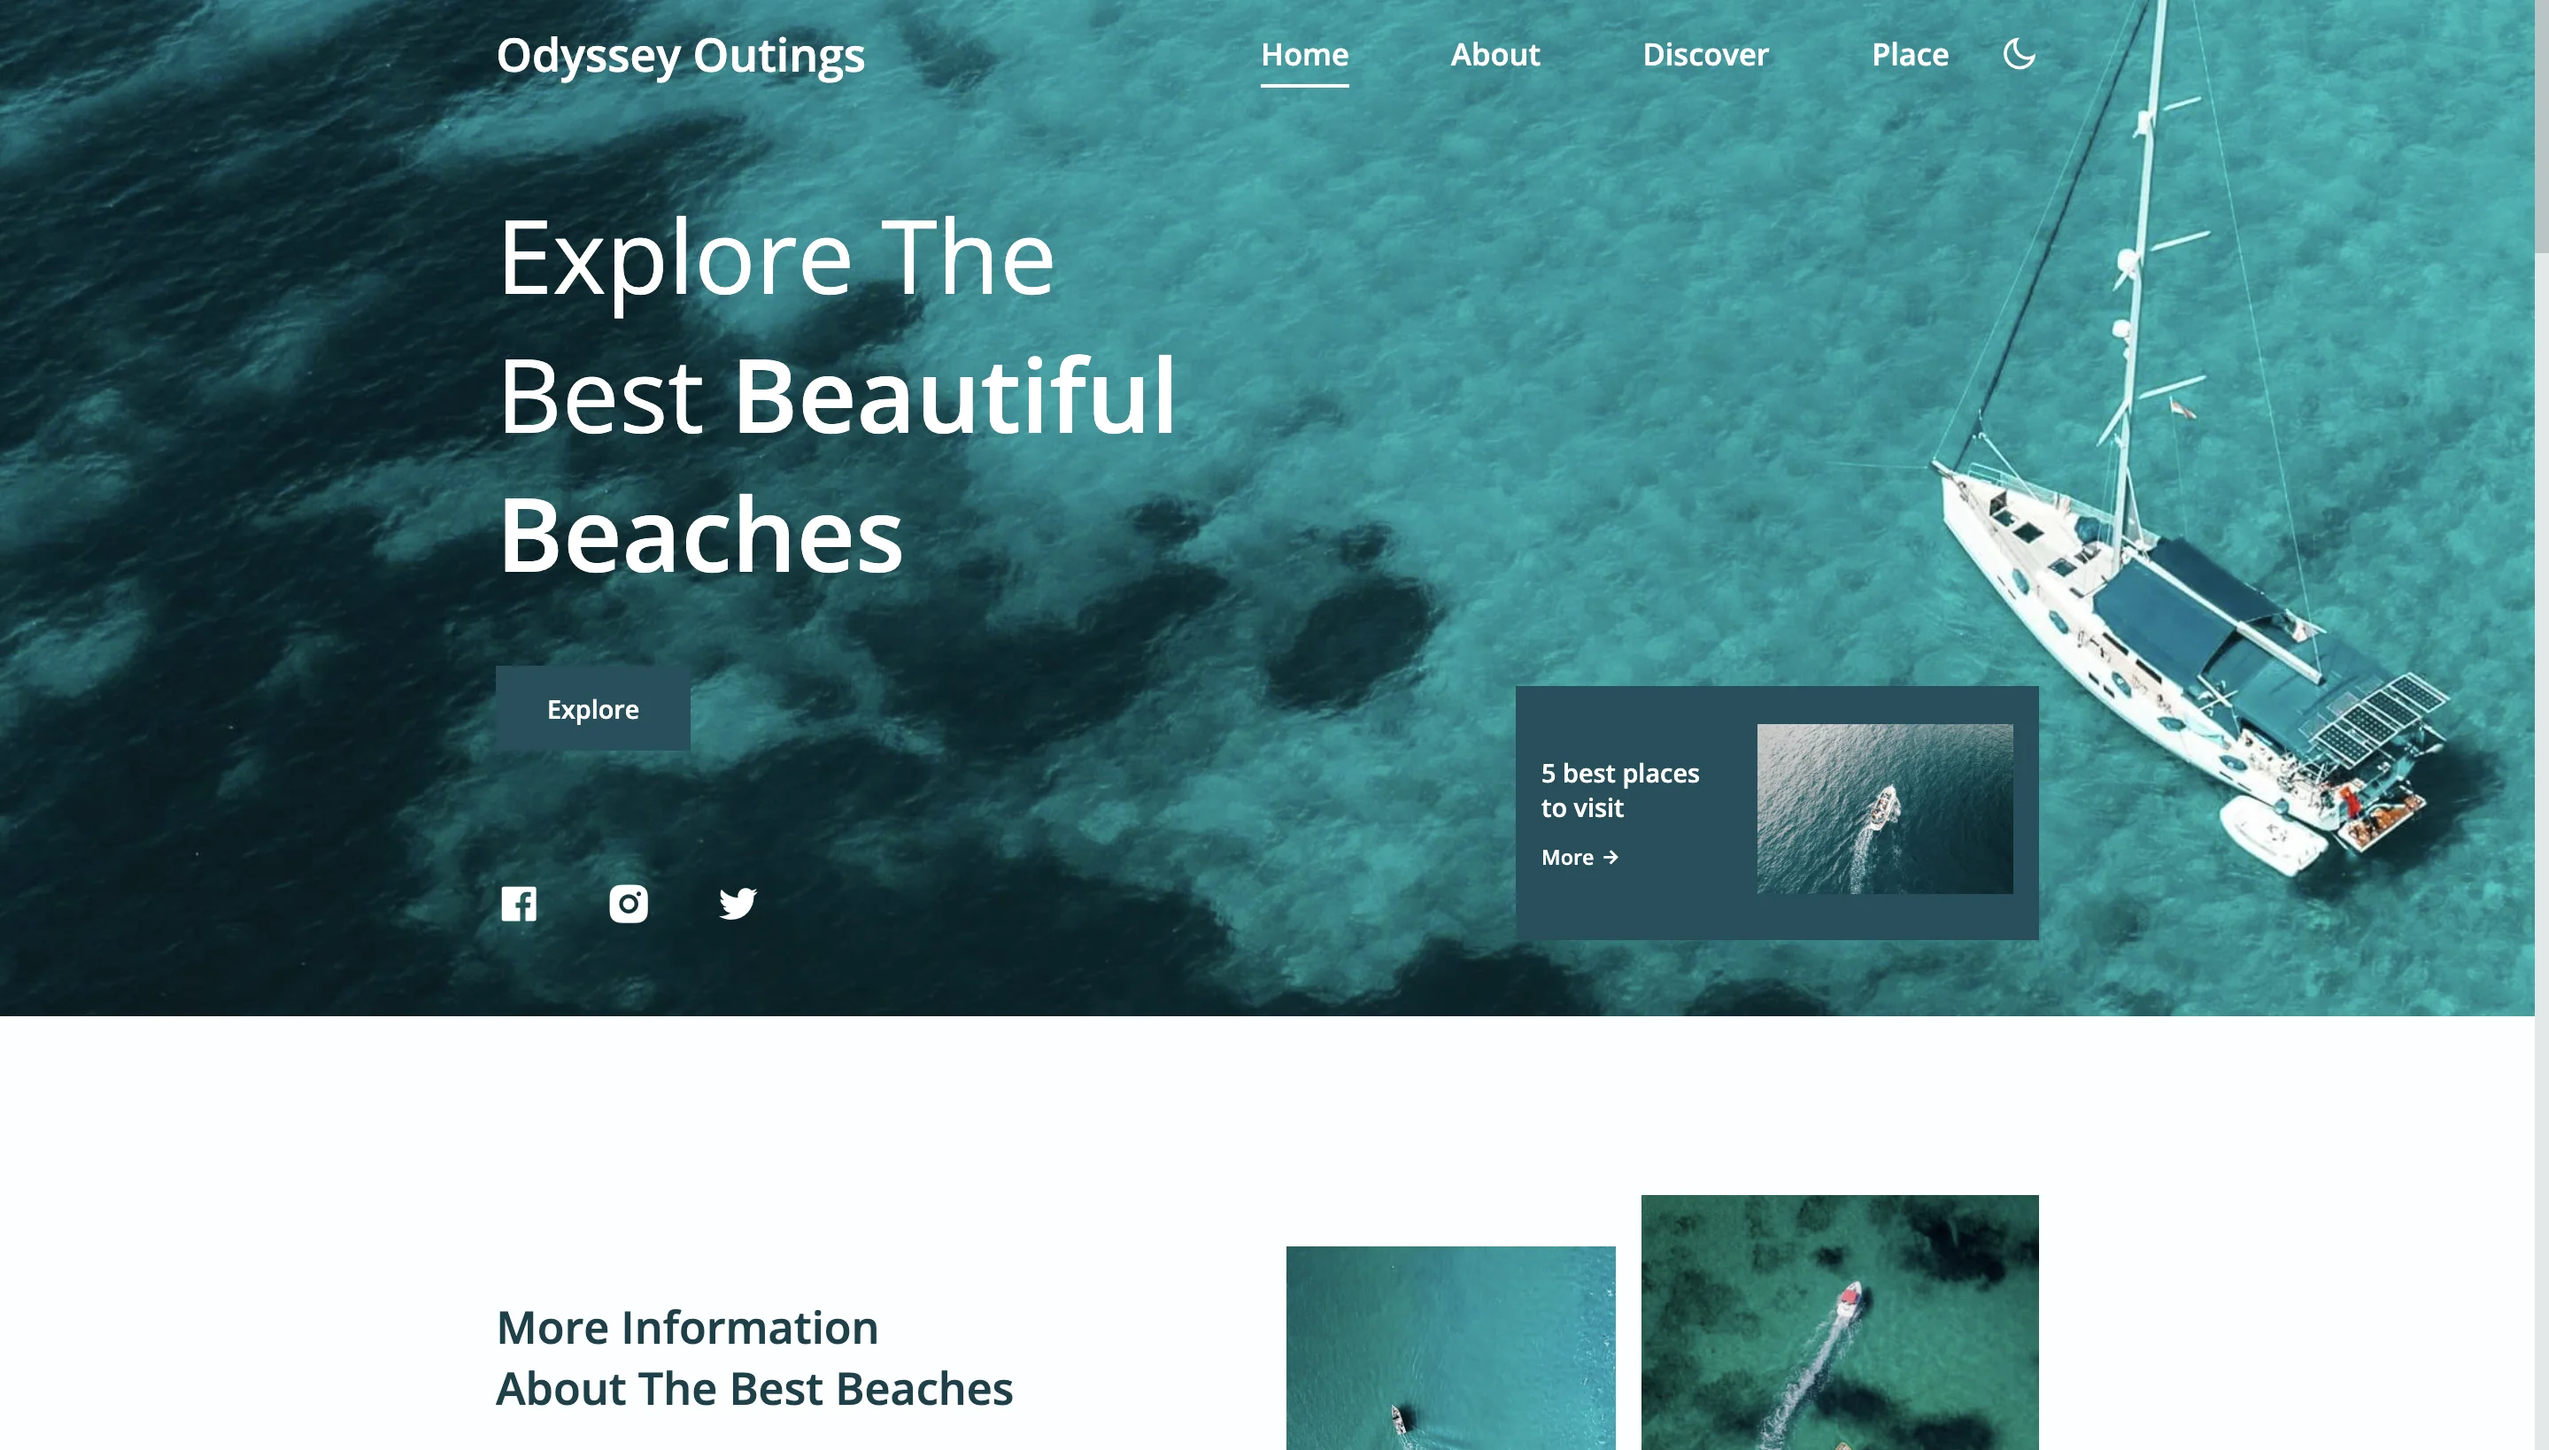
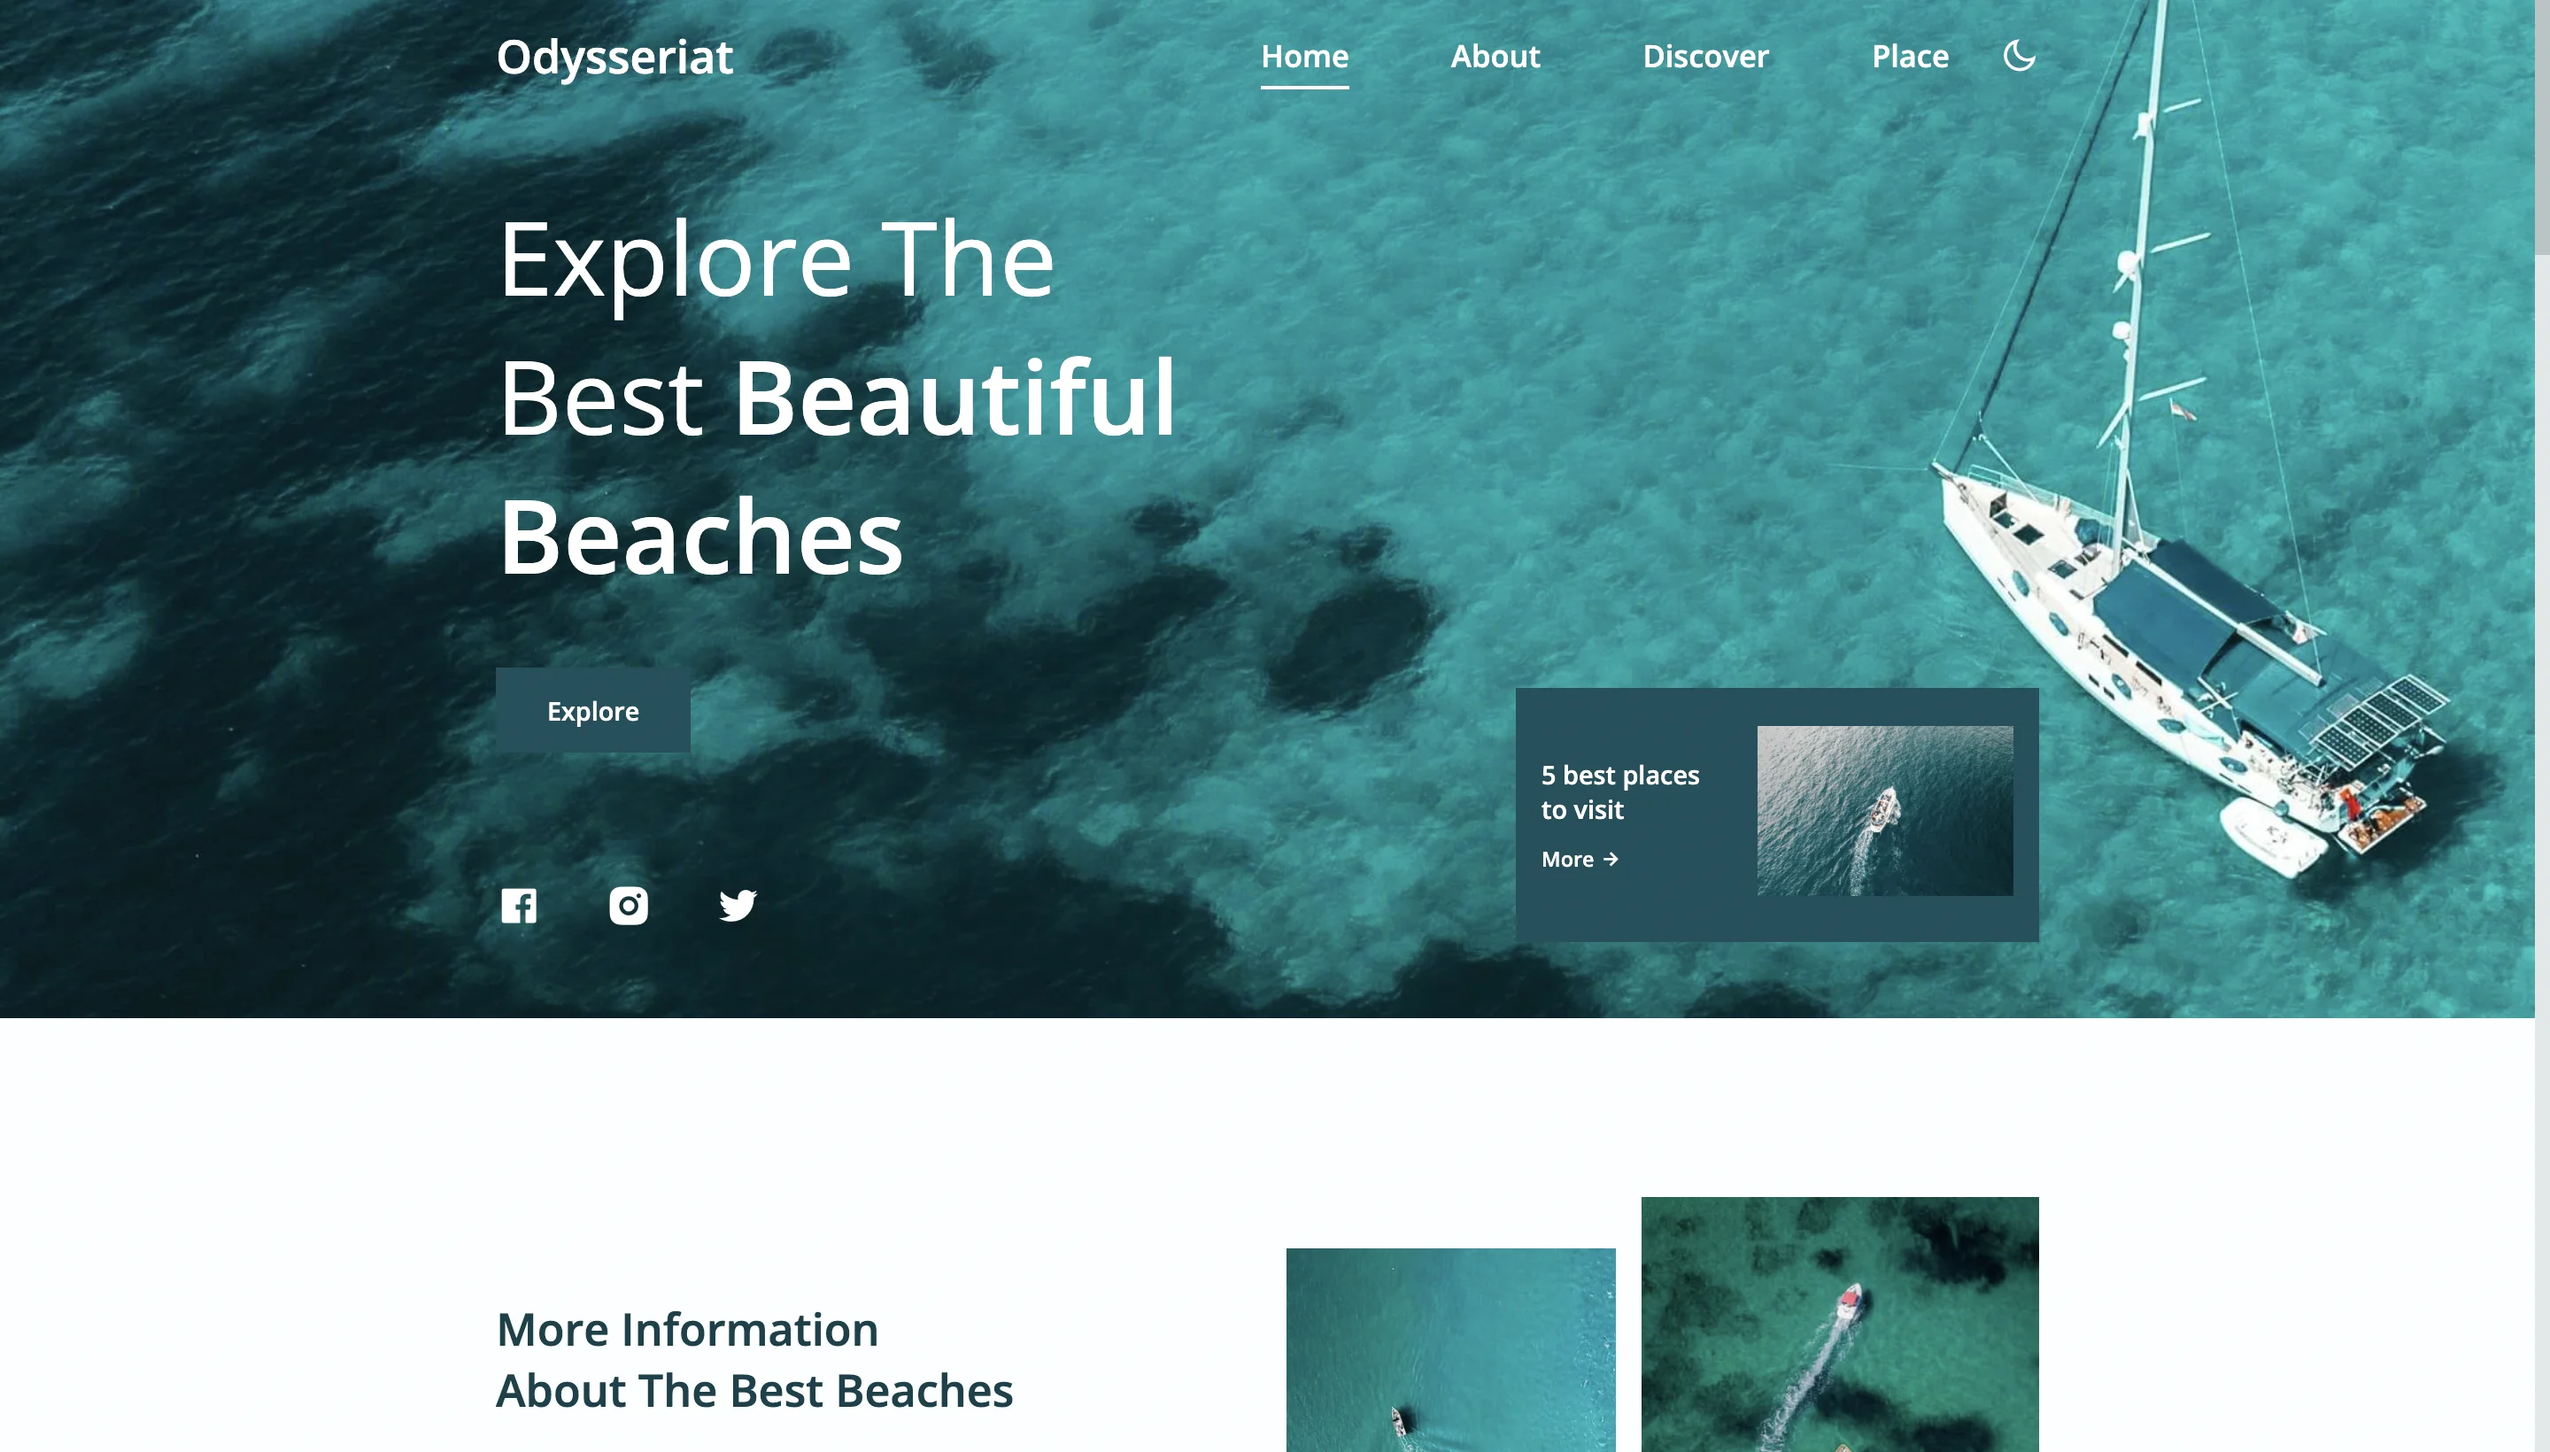
refactor: refactor some titles

diff --git a/index.html b/index.html
@@ -30,7 +30,7 @@
     <!--=============== HEADER ===============-->
     <header class="header" id="header">
       <nav class="nav container">
-        <a href="#" class="nav__logo">Odyssey Outings</a>
+        <a href="#" class="nav__logo">Odysseriat</a>
 
         <div class="nav__menu" id="nav-menu">
           <ul class="nav__list">
